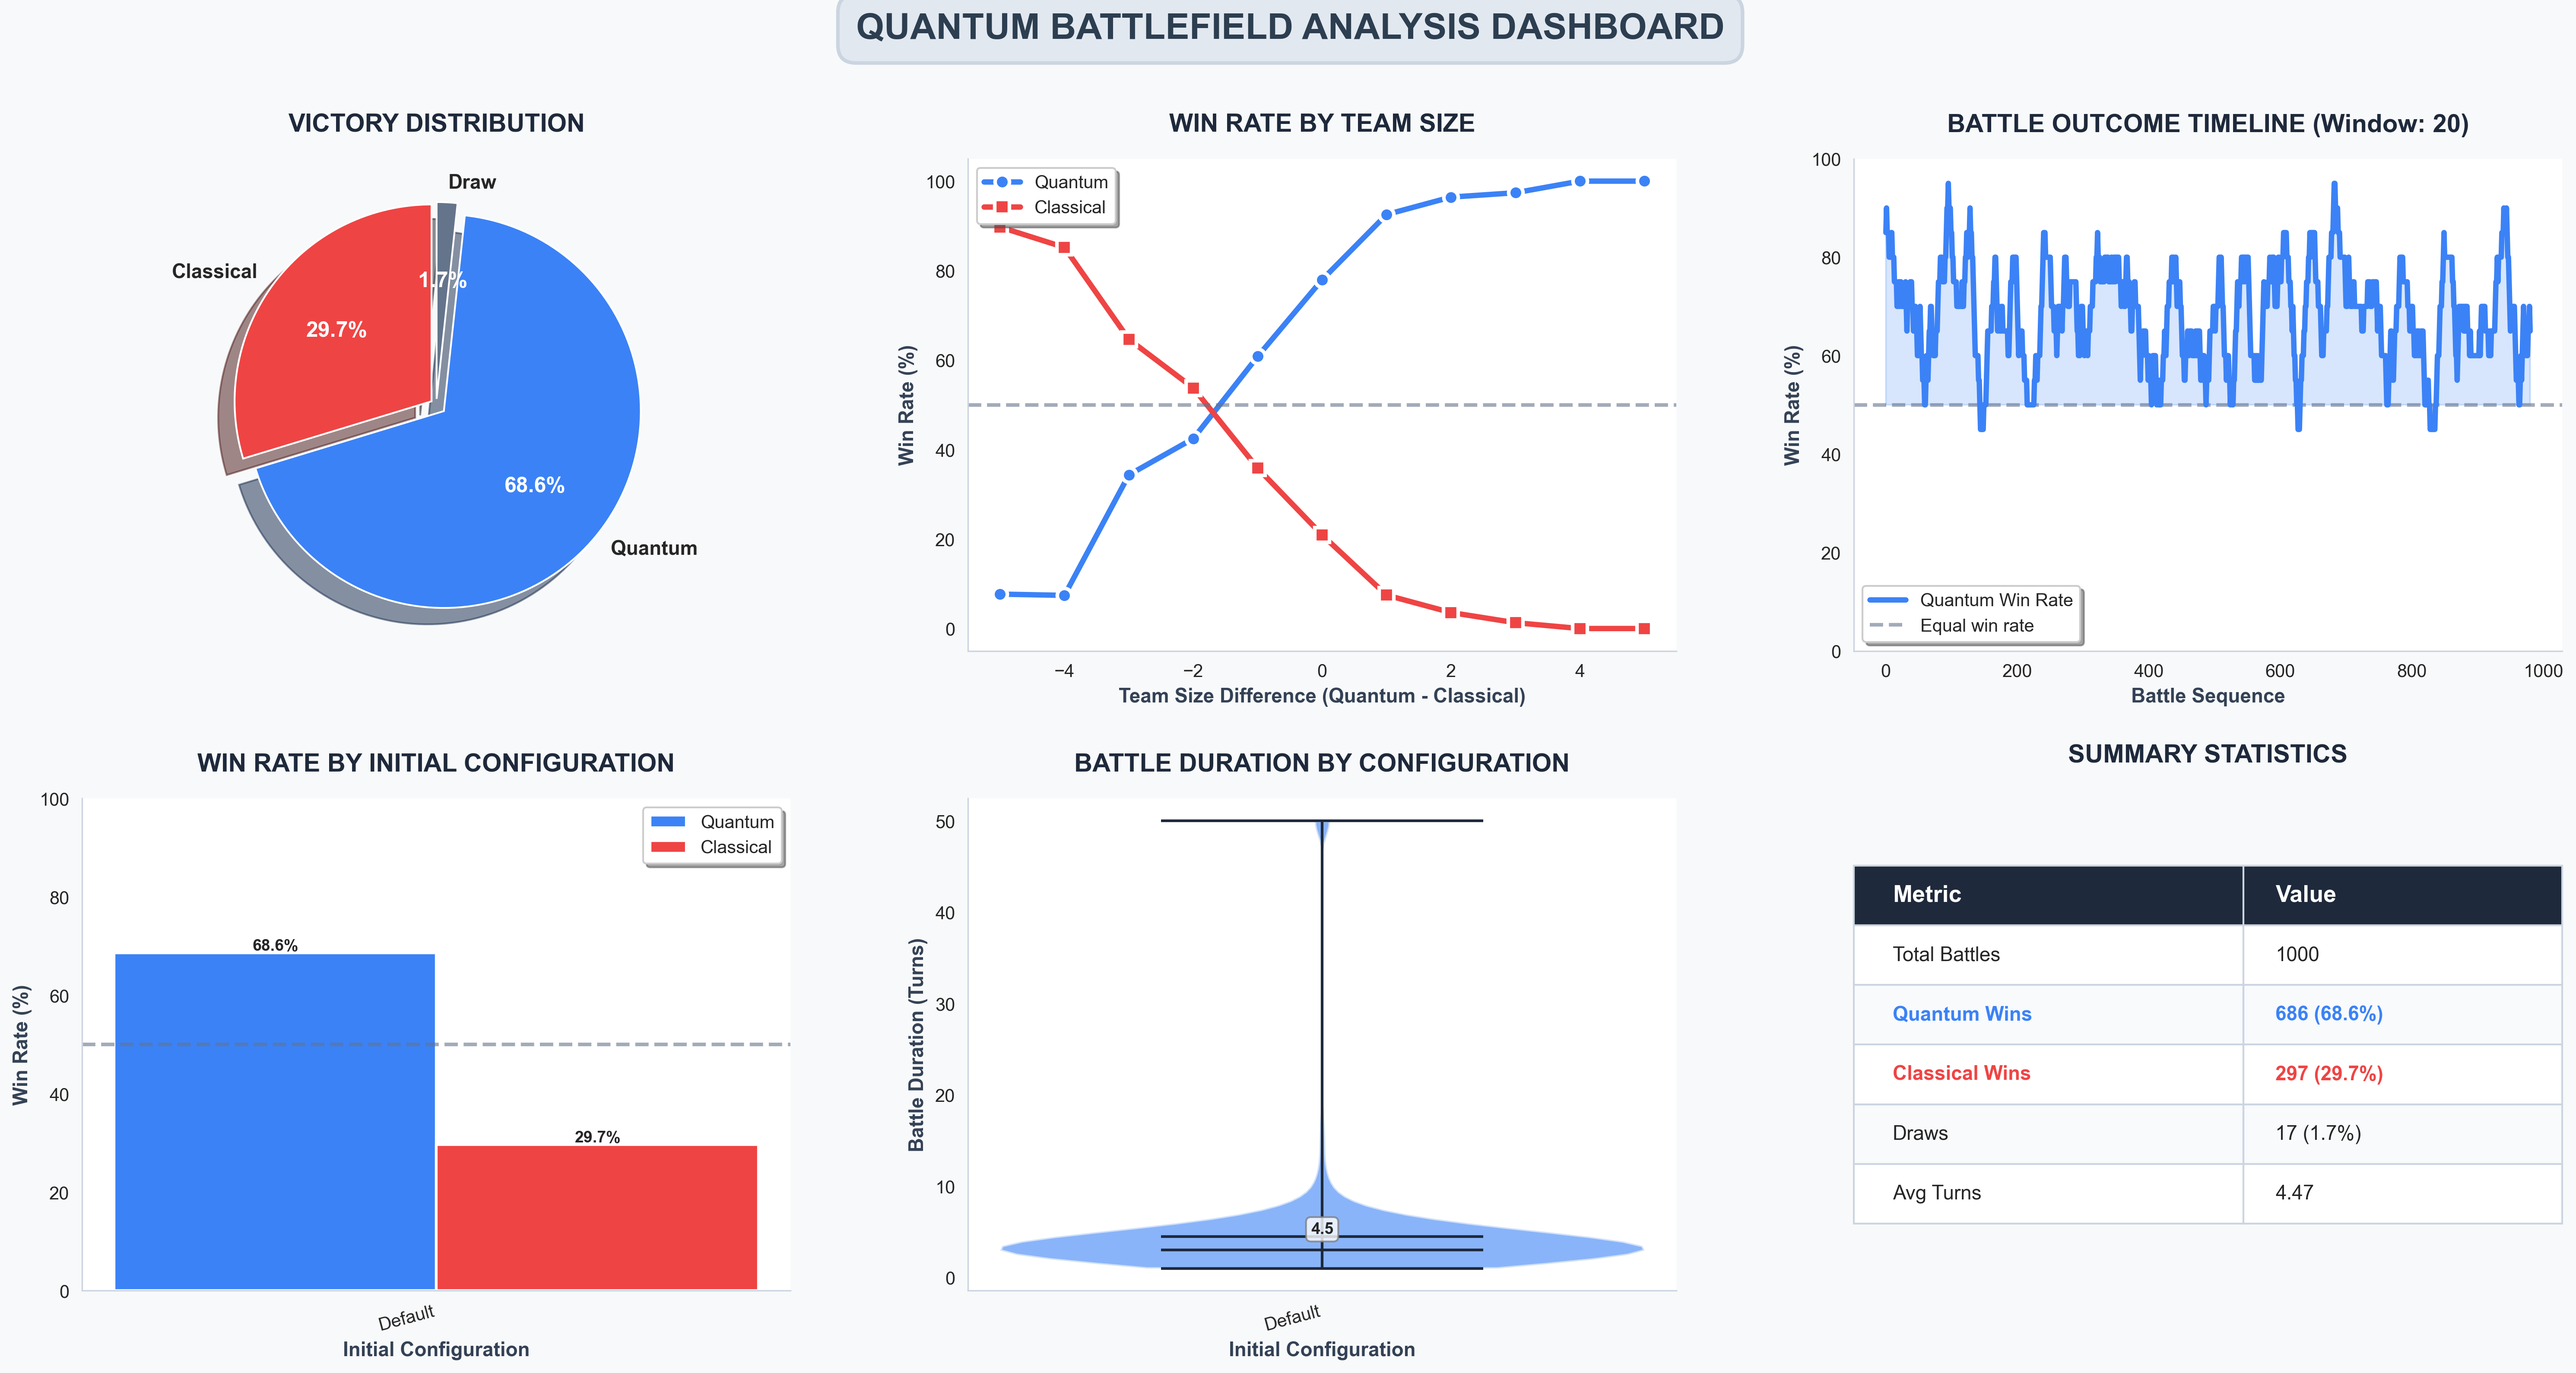
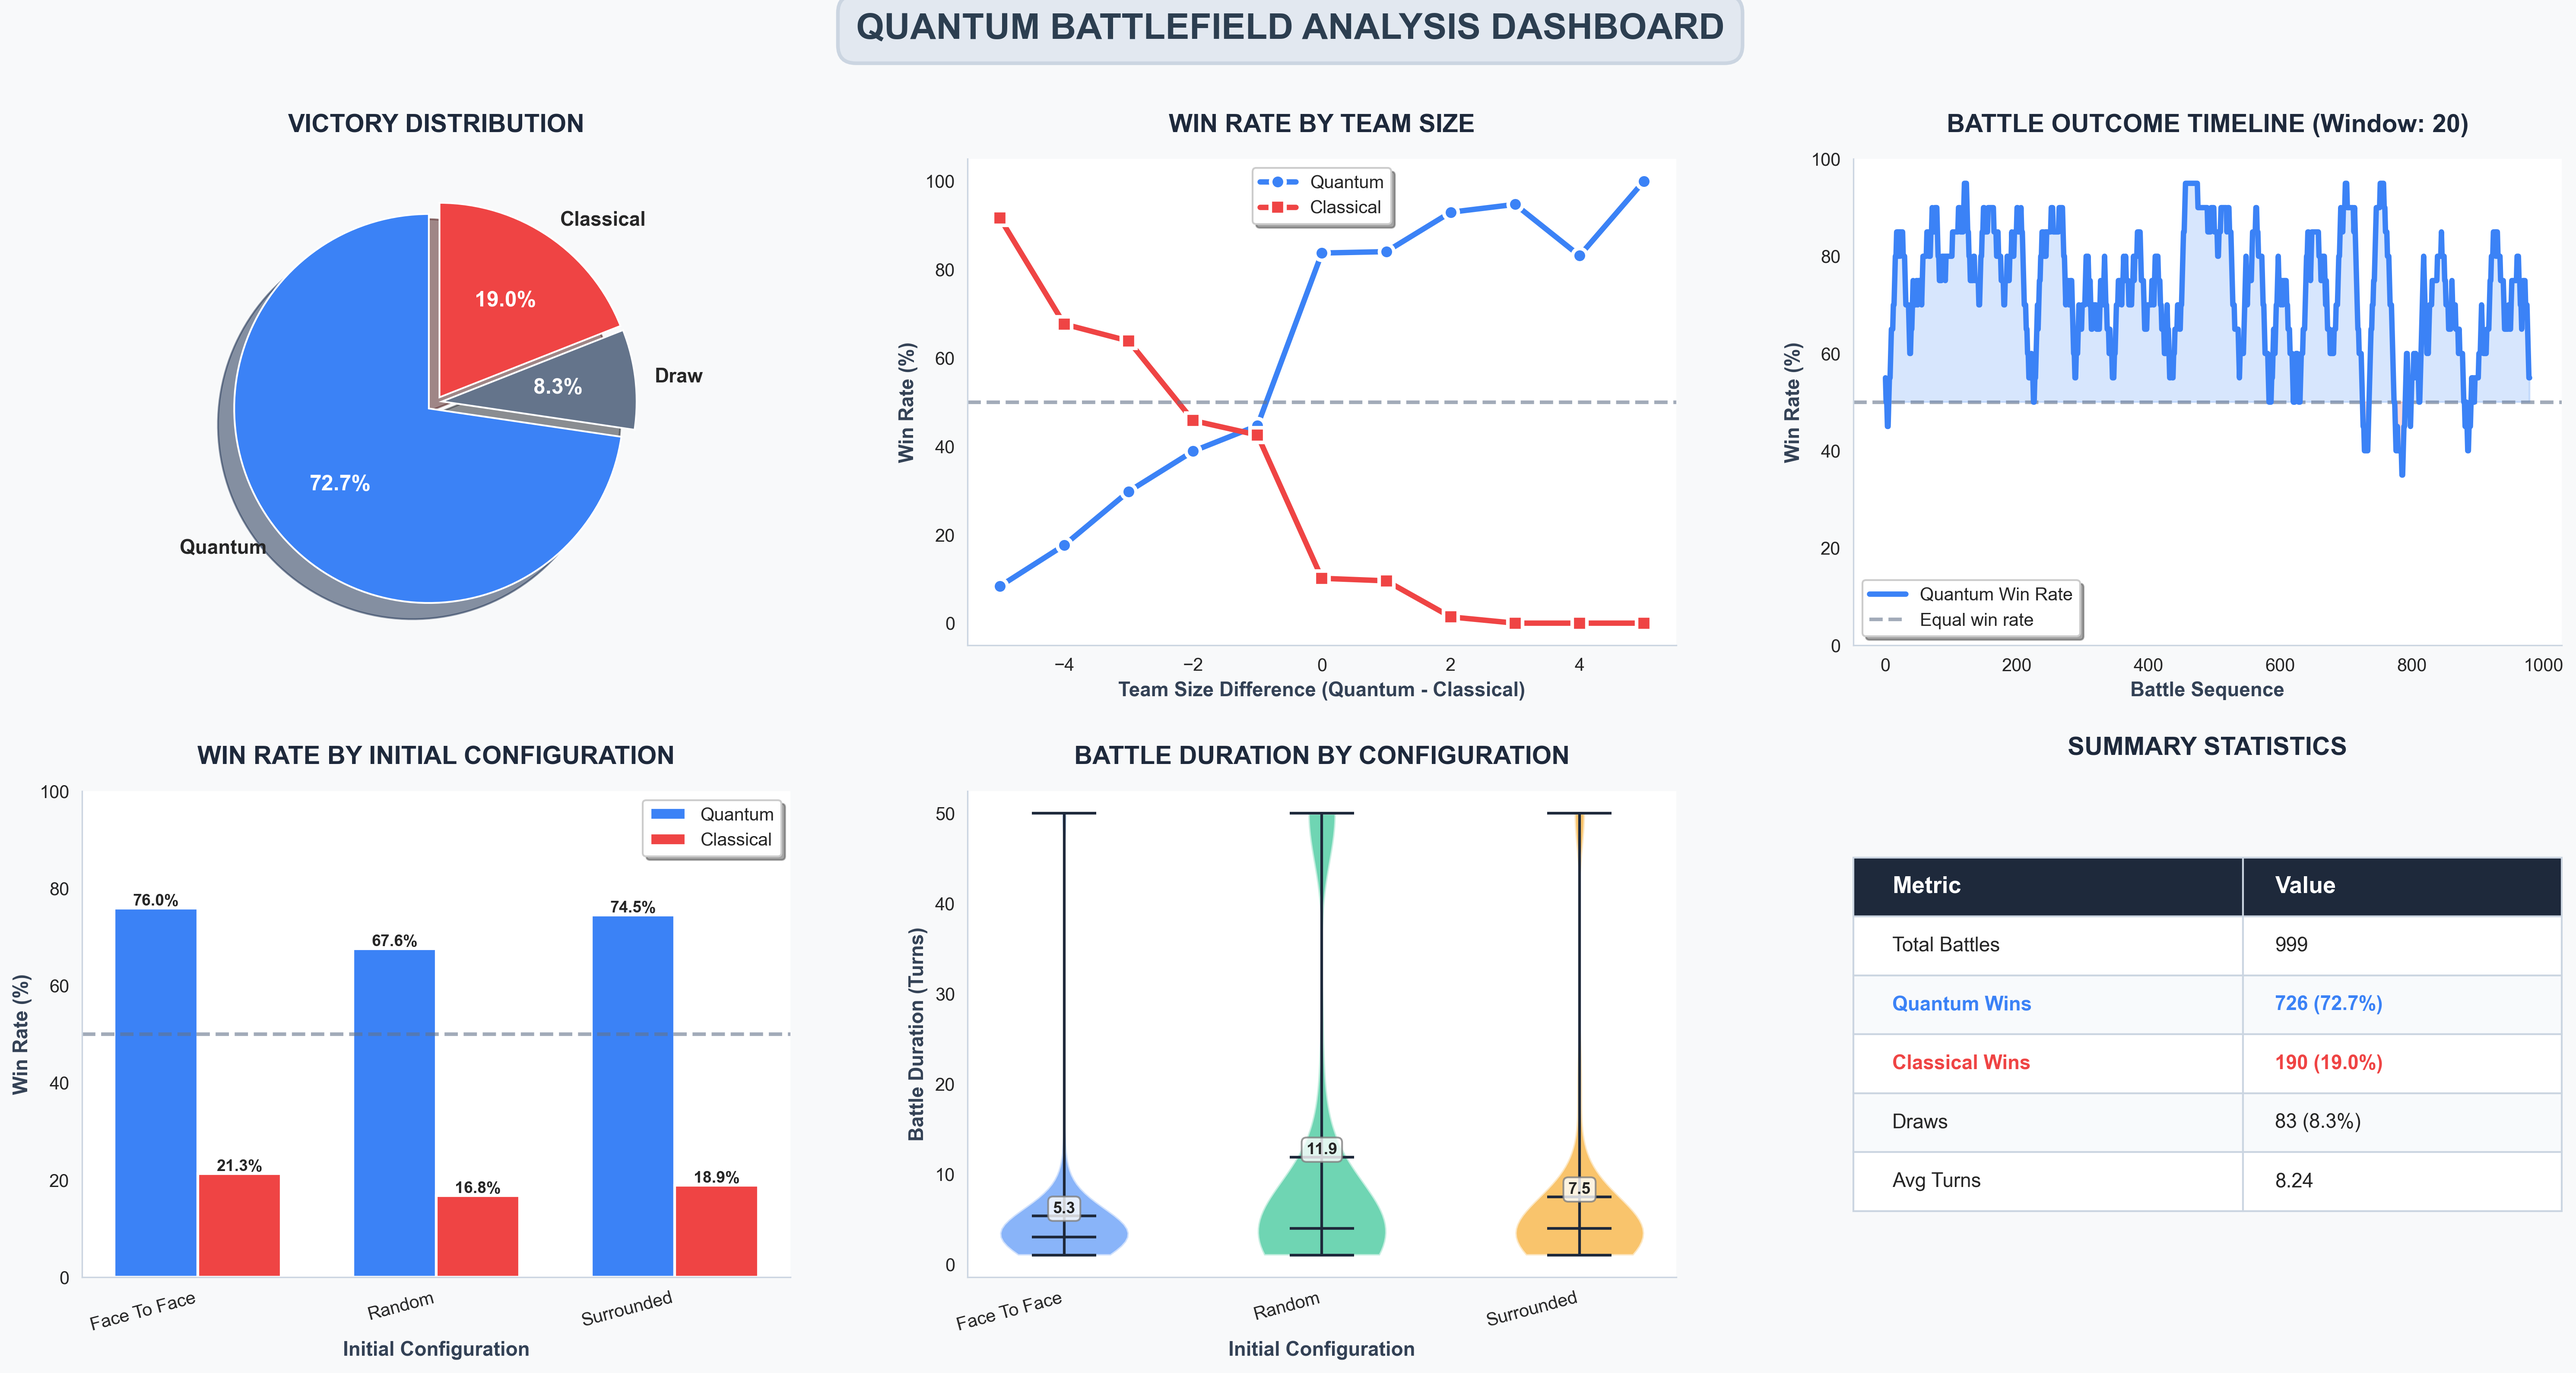
New h changing strategy depending on number of soldiers

diff --git a/quantum_library.py b/quantum_library.py
@@ -27,7 +27,7 @@ ALGORITHMS = {
     'random_walk': quantum_random_walk,
 }
 
-def quantum_best_move(soldier: "Soldier", enemies: List["Soldier"], algorithm: str = "quantum_step") -> tuple:
+def quantum_best_move(soldier: "Soldier", enemies: List["Soldier"], algorithm: str = "quantum_step", teammates: List["Soldier"] = None) -> tuple:
     """
     Determine the best move for a soldier using quantum algorithms.
 
@@ -38,16 +38,17 @@ def quantum_best_move(soldier: "Soldier", enemies: List["Soldier"], algorithm: s
         soldier: The soldier making the move.
         enemies: List of enemy soldiers on the battlefield.
         algorithm: Algorithm to use (default: "quantum_step").
+        teammates: List of ally soldiers on the battlefield (optional).
 
     Returns:
         Tuple (new_x, new_y) with the new position.
     """
     if algorithm == "quantum_step":
         # Calculate H gradients for all 4 cardinal directions
-        h_left = calculate_h_left(soldier, enemies)   # I (Izquierda)
-        h_right = calculate_h_right(soldier, enemies)  # D (Derecha)
-        h_up = calculate_h_up(soldier, enemies)        # + (Arriba)
-        h_down = calculate_h_down(soldier, enemies)    # - (Abajo)
+        h_left = calculate_h_left(soldier, enemies, teammates)   # I (Izquierda)
+        h_right = calculate_h_right(soldier, enemies, teammates)  # D (Derecha)
+        h_up = calculate_h_up(soldier, enemies, teammates)        # + (Arriba)
+        h_down = calculate_h_down(soldier, enemies, teammates)    # - (Abajo)
 
         # Build omega dictionary
         # Negative gradient = more offensive direction (preferred)
@@ -122,7 +123,7 @@ def calculate_vulnerability(soldier: "Soldier", enemies: List["Soldier"]) -> flo
     return vulnerability
 
 # Calcular las H
-def calculate_h_value(soldier: "Soldier", enemies: List["Soldier"]) -> float:
+def calculate_h_value(soldier: "Soldier", enemies: List["Soldier"], teammates: List["Soldier"] = None) -> float:
     """
     Calculate the h heuristic value for a soldier based on vulnerability vs offensive power.
 
@@ -132,6 +133,7 @@ def calculate_h_value(soldier: "Soldier", enemies: List["Soldier"]) -> float:
     Args:
         soldier: The soldier being evaluated.
         enemies: List of enemy soldiers on the battlefield.
+        teammates: List of ally soldiers on the battlefield (optional).
 
     Returns:
         Heuristic value h (higher = more vulnerable, lower = more offensive).
@@ -139,13 +141,26 @@ def calculate_h_value(soldier: "Soldier", enemies: List["Soldier"]) -> float:
     offensive = calculate_offensive_power(soldier, enemies)
     vulnerability = calculate_vulnerability(soldier, enemies)
 
-    # H = vulnerability - offensive_power
-    # Higher vulnerability and lower offensive power -> higher h
-    # Lower vulnerability and higher offensive power -> lower h
-    return 2 * offensive - vulnerability
+    # si somos menos soldados defensivo, retornamos offensive - (unidades de diferencia) * vulnerability
+    # si mas soldados ofensivo, retornamos (unidades de diferencia) * offensive - vulnerability
+
+    if teammates is not None:
+        num_allies = len(teammates)
+        num_enemies = len(enemies)
+        unit_difference = num_allies - num_enemies
+
+        if unit_difference < 0:
+            # Menos soldados (defensivo)
+            return offensive - abs(unit_difference) * vulnerability
+        else:
+            # Más soldados o igual (ofensivo)
+            return unit_difference * offensive - vulnerability
+    else:
+        # Fallback a la lógica anterior si no hay información de teammates
+        return 2 * offensive - vulnerability
 
 # Calcular h arriba, que es la diferencia de calcular el valor h desplazando el valor de la variable y de nuestro soldado una casilla hacia arriba menos el valor de h sin desplazar ninguna variable.
-def calculate_h_up(soldier: "Soldier", enemies: List["Soldier"]) -> float:
+def calculate_h_up(soldier: "Soldier", enemies: List["Soldier"], teammates: List["Soldier"] = None) -> float:
     """
     Calculate the h gradient when moving up (y+1).
 
@@ -156,6 +171,7 @@ def calculate_h_up(soldier: "Soldier", enemies: List["Soldier"]) -> float:
     Args:
         soldier: The soldier being evaluated.
         enemies: List of enemy soldiers on the battlefield.
+        teammates: List of ally soldiers on the battlefield (optional).
 
     Returns:
         Gradient of h in the upward direction.
@@ -163,7 +179,7 @@ def calculate_h_up(soldier: "Soldier", enemies: List["Soldier"]) -> float:
     from battlefield import Soldier
 
     # Calculate h at current position
-    h_current = calculate_h_value(soldier, enemies)
+    h_current = calculate_h_value(soldier, enemies, teammates)
 
     # Create a temporary soldier with y shifted up by 1
     soldier_shifted = Soldier(
@@ -178,12 +194,12 @@ def calculate_h_up(soldier: "Soldier", enemies: List["Soldier"]) -> float:
     )
 
     # Calculate h at shifted position
-    h_shifted = calculate_h_value(soldier_shifted, enemies)
+    h_shifted = calculate_h_value(soldier_shifted, enemies, teammates)
 
     # Return the difference
     return h_shifted - h_current
 
-def calculate_h_down(soldier: "Soldier", enemies: List["Soldier"]) -> float:
+def calculate_h_down(soldier: "Soldier", enemies: List["Soldier"], teammates: List["Soldier"] = None) -> float:
     """
     Calculate the h gradient when moving down (y-1).
 
@@ -192,13 +208,14 @@ def calculate_h_down(soldier: "Soldier", enemies: List["Soldier"]) -> float:
     Args:
         soldier: The soldier being evaluated.
         enemies: List of enemy soldiers on the battlefield.
+        teammates: List of ally soldiers on the battlefield (optional).
 
     Returns:
         Gradient of h in the downward direction.
     """
     from battlefield import Soldier
 
-    h_current = calculate_h_value(soldier, enemies)
+    h_current = calculate_h_value(soldier, enemies, teammates)
 
     soldier_shifted = Soldier(
         x=soldier.x,
@@ -211,10 +228,10 @@ def calculate_h_down(soldier: "Soldier", enemies: List["Soldier"]) -> float:
         max_health=soldier.max_health
     )
 
-    h_shifted = calculate_h_value(soldier_shifted, enemies)
+    h_shifted = calculate_h_value(soldier_shifted, enemies, teammates)
     return h_shifted - h_current
 
-def calculate_h_left(soldier: "Soldier", enemies: List["Soldier"]) -> float:
+def calculate_h_left(soldier: "Soldier", enemies: List["Soldier"], teammates: List["Soldier"] = None) -> float:
     """
     Calculate the h gradient when moving left (x-1).
 
@@ -223,13 +240,14 @@ def calculate_h_left(soldier: "Soldier", enemies: List["Soldier"]) -> float:
     Args:
         soldier: The soldier being evaluated.
         enemies: List of enemy soldiers on the battlefield.
+        teammates: List of ally soldiers on the battlefield (optional).
 
     Returns:
         Gradient of h in the left direction.
     """
     from battlefield import Soldier
 
-    h_current = calculate_h_value(soldier, enemies)
+    h_current = calculate_h_value(soldier, enemies, teammates)
 
     soldier_shifted = Soldier(
         x=soldier.x - 1,
@@ -242,10 +260,10 @@ def calculate_h_left(soldier: "Soldier", enemies: List["Soldier"]) -> float:
         max_health=soldier.max_health
     )
 
-    h_shifted = calculate_h_value(soldier_shifted, enemies)
+    h_shifted = calculate_h_value(soldier_shifted, enemies, teammates)
     return h_shifted - h_current
 
-def calculate_h_right(soldier: "Soldier", enemies: List["Soldier"]) -> float:
+def calculate_h_right(soldier: "Soldier", enemies: List["Soldier"], teammates: List["Soldier"] = None) -> float:
     """
     Calculate the h gradient when moving right (x+1).
 
@@ -254,13 +272,14 @@ def calculate_h_right(soldier: "Soldier", enemies: List["Soldier"]) -> float:
     Args:
         soldier: The soldier being evaluated.
         enemies: List of enemy soldiers on the battlefield.
+        teammates: List of ally soldiers on the battlefield (optional).
 
     Returns:
         Gradient of h in the right direction.
     """
     from battlefield import Soldier
 
-    h_current = calculate_h_value(soldier, enemies)
+    h_current = calculate_h_value(soldier, enemies, teammates)
 
     soldier_shifted = Soldier(
         x=soldier.x + 1,
@@ -273,7 +292,7 @@ def calculate_h_right(soldier: "Soldier", enemies: List["Soldier"]) -> float:
         max_health=soldier.max_health
     )
 
-    h_shifted = calculate_h_value(soldier_shifted, enemies)
+    h_shifted = calculate_h_value(soldier_shifted, enemies, teammates)
     return h_shifted - h_current
 
 def calculate_h_right_up(soldier: "Soldier", enemies: List["Soldier"]) -> float:

diff --git a/battlefield.py b/battlefield.py
@@ -189,10 +189,11 @@ class QuantumBattlefield:
                 continue
 
             if soldier.team == "Quantum":
-                # Get list of enemy soldiers
+                # Get list of enemy soldiers and teammates
                 enemies = [s for s in self.soldiers if s.team != soldier.team and s.is_alive()]
+                teammates = [s for s in self.soldiers if s.team == soldier.team and s.is_alive() and s is not soldier]
                 # Use quantum algorithm with H gradients
-                best_move = qlib.quantum_best_move(soldier, enemies, quantum_algorithm)
+                best_move = qlib.quantum_best_move(soldier, enemies, quantum_algorithm, teammates)
             else:
                 # the classical team moves using random walks
                 best_move = (random.randint(-1, 1), random.randint(-1, 1))
